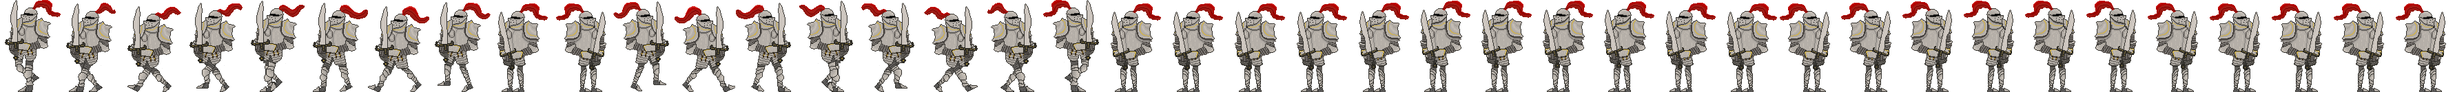
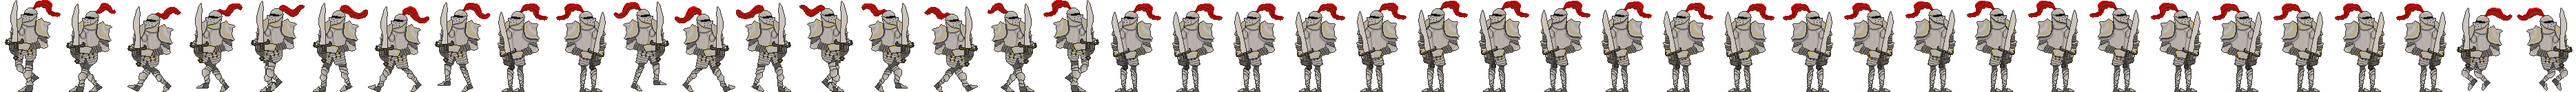
correction d'anim, TROUVER LA SYNCRO MTN

diff --git a/src/objects/Player.js b/src/objects/Player.js
@@ -19,8 +19,8 @@ class Player extends Phaser.Physics.Arcade.Sprite {
         this.setFriction(1, 1);
         this.setDepth(1000);
 
-        this.setBodySize(this.body.width + 30, this.body.height + 70);
-        this.setOffset(15, 20);
+        this.setBodySize(this.body.width +17, this.body.height + 84);
+        this.setOffset(23, 18);
 
         this.anims.create({
             key: 'left',
@@ -49,13 +49,27 @@ class Player extends Phaser.Physics.Arcade.Sprite {
 
         this.anims.create({
             key: 'att_l',
-            frames: this.anims.generateFrameNumbers('hero', {start: 23, end: 0}),
-            frameRate: 48
+            frames: this.anims.generateFrameNumbers('AndrasAttack', {start: 4, end: 0}),
+            frameRate: 4,
+            repeat: 0
         });
         this.anims.create({
             key: 'att_r',
-            frames: this.anims.generateFrameNumbers('hero', {start: 25, end: 48}),
-            frameRate: 48
+            frames: this.anims.generateFrameNumbers('AndrasAttack', {start: 5, end: 9}),
+            frameRate: 4,
+            repeat: 0
+        });
+        this.anims.create({
+            key: 'jump_l',
+            frames: this.anims.generateFrameNumbers('Andras', {start: 40, end: 40}),
+            frameRate: 4,
+            repeat: -1
+        });
+        this.anims.create({
+            key: 'jump_r',
+            frames: this.anims.generateFrameNumbers('Andras', {start: 41, end: 41}),
+            frameRate: 4,
+            repeat: -1
         });
 
         this._directionX = 0;
@@ -92,22 +106,41 @@ class Player extends Phaser.Physics.Arcade.Sprite {
 
         //cap les vitesses verticales
         this.body.velocity.y = Math.min(800, Math.max(-800, this.body.velocity.y));
+        if (this.body.velocity.y ===! 0){
+            this.anims.play(this.dirX === -1 ? 'jump_l' : 'jump_r', true);
+        }else{
+            if(this.body.velocity.x < 0){
+            this.anims.play('left', true);
+        }
+            if (this.body.velocity.x > 0){
+                this.anims.play('right', true);
+            }
+            if (this.body.velocity.x === 0){
+                this.anims.play(this.dirX === -1 ? 'turn' : 'turn off', true);
+            }}
+
 
         switch (true) {
             case this._directionX < 0:
                 this.setVelocityX(-150);
-                this.anims.play('left', true);
+                //this.anims.play('left', true);
                 this.dirX = -1;
                 break;
-            case this._directionX > 0:
 
+            case this._directionX > 0:
                 this.setVelocityX(150);
-                this.anims.play('right', true);
+                //this.anims.play('right', true);
                 this.dirX = 1;
                 break;
+
             default:
                 this.setVelocityX(0);
-                this.anims.play(this.dirX === 1 ? 'turn' : 'turn off', true);
+                //this.anims.play(this.dirX === -1 ? 'turn' : 'turn off', true);
+                if(this.dirX === -1){
+                    this.setOffset(17, 18);
+                }else{
+                    this.setOffset(23,18);
+                }
 
         }
         if(this.viensDeTuerUnMonstre === false) {
@@ -129,6 +162,7 @@ class Player extends Phaser.Physics.Arcade.Sprite {
             this.rechargeSonCoup = true; //lance la recharge
             //console.log("att 2 sec, je viens de frapper!");
             Tableau.current.epee.setPosition(this.x + (50 * this.dirX), this.y); //fait déplacer le collider d'attaque
+            this.anims.play(this.dirX === -1 ? 'att_r' : 'att_l', true); //Anim d'attaque
             setTimeout(function () { //cooldown qui tp le collider d'attaque
                 Tableau.current.player.estEnTrainDAttaquer = false;
                 Tableau.current.epee.setPosition(-1000, -1000);

diff --git a/src/scenes/structure/Tableau.js b/src/scenes/structure/Tableau.js
@@ -24,6 +24,9 @@ class Tableau extends Phaser.Scene {
         this.load.spritesheet('Andras', 'assets/Andras.png',
             {frameWidth: 89, frameHeight: 132}
             );
+        this.load.spritesheet('AndrasAttack', 'assets/AndrasAttack.png',
+            {frameWidth: 153, frameHeight: 129}
+        );
     }
 
     create() {
